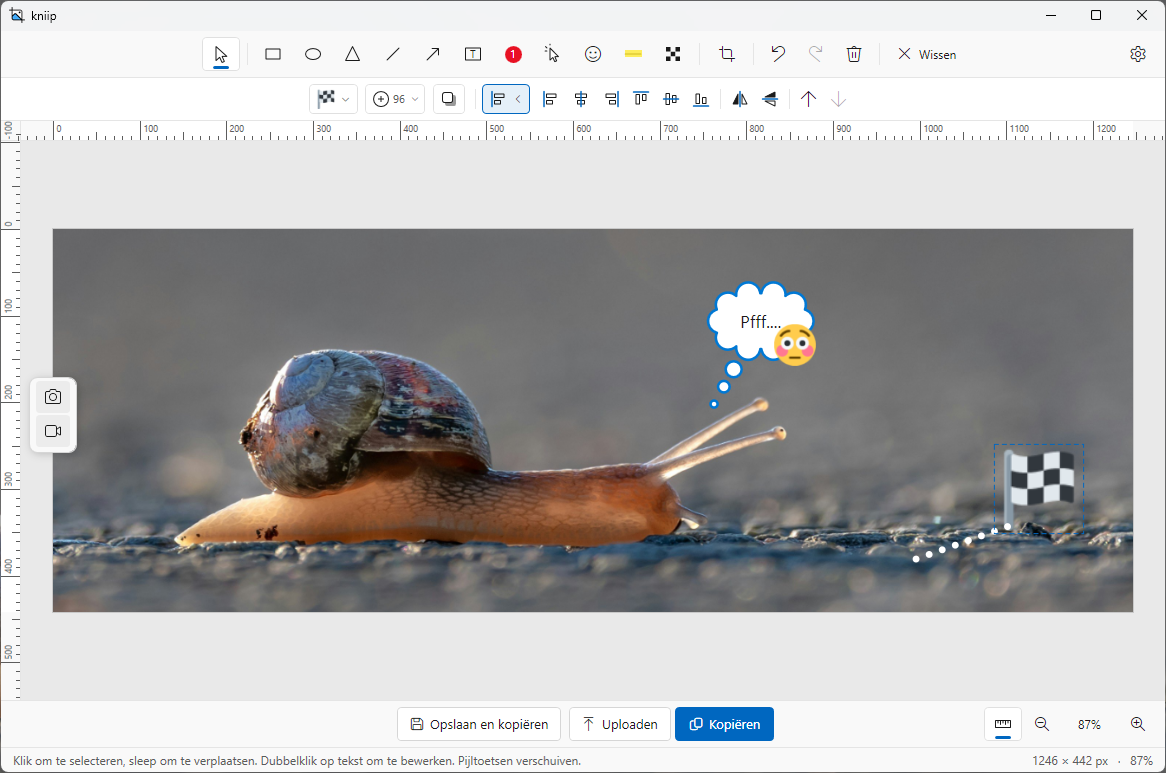
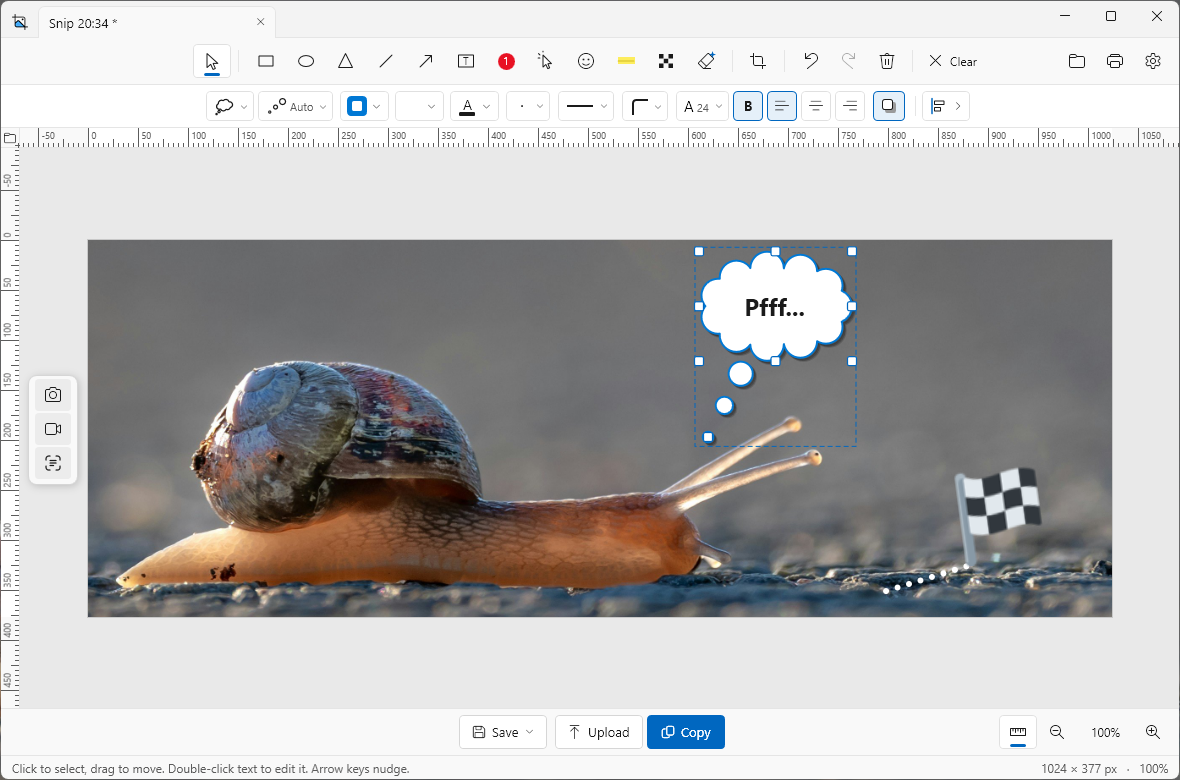
2.5.1

diff --git a/src/Kniip/App.xaml.cs b/src/Kniip/App.xaml.cs
@@ -244,7 +244,7 @@ public partial class App : Application
         BringToFront(_editorShell);
     }
 
-    /// <summary>Open kniip uit het systeemvak: de editor als er tabbladen zijn, anders de afbeeldingsgeschiedenis.</summary>
+    /// <summary>Open kniip uit het systeemvak: de editor met de bestaande tabbladen, anders met een leeg canvas.</summary>
     private void OpenKniip()
     {
         if (_editorShell != null)
@@ -253,7 +253,7 @@ public partial class App : Application
         }
         else
         {
-            ShowHistory(images: true);
+            OpenBlankEditor();
         }
     }
 

diff --git a/CHANGELOG.md b/CHANGELOG.md
@@ -2,6 +2,12 @@
 
 All notable changes to kniip are listed in this file. The newest version is at the top.
 
+## 2.5.1 - 2026-11-13
+
+### Fixed
+
+- **Open kniip** in the system tray menu opened the image history when the editor had no tabs. It now always opens the editor, with an empty canvas if there are no tabs.
+
 ## 2.5.0 - 2026-11-13
 
 ### Added

diff --git a/README.md b/README.md
@@ -84,7 +84,7 @@ Requirements:
 Build:
 
 ```powershell
-.\build.ps1                  # version 2.5.0
+.\build.ps1                  # version 2.5.1
 .\build.ps1 -Version 1.2.0   # another version
 ```
 

diff --git a/README_NL.md b/README_NL.md
@@ -85,7 +85,7 @@ Vereisten:
 Bouwen:
 
 ```powershell
-.\build.ps1                  # versie 2.5.0
+.\build.ps1                  # versie 2.5.1
 .\build.ps1 -Version 1.2.0   # andere versie
 ```
 
